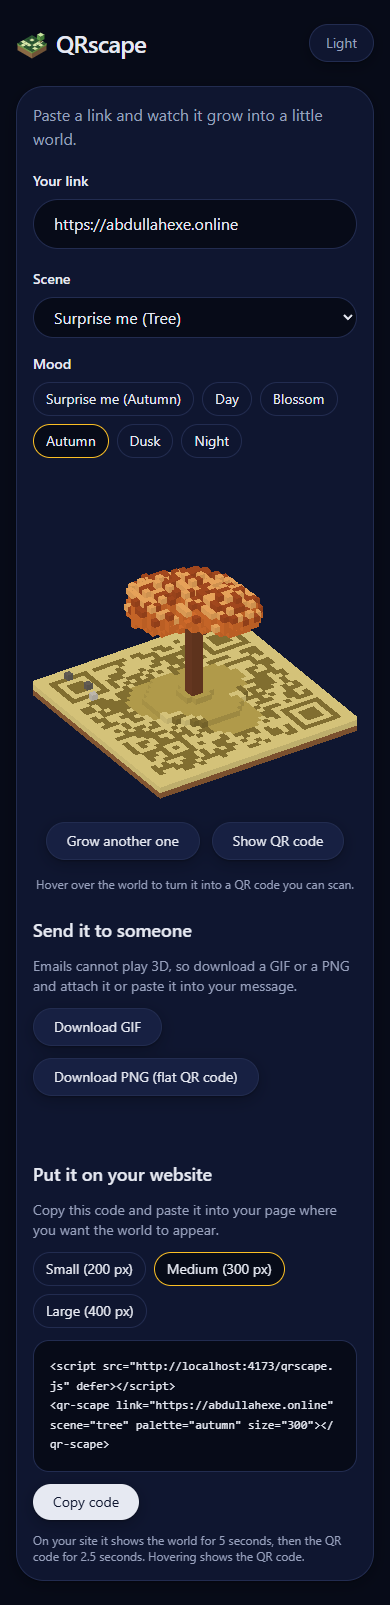
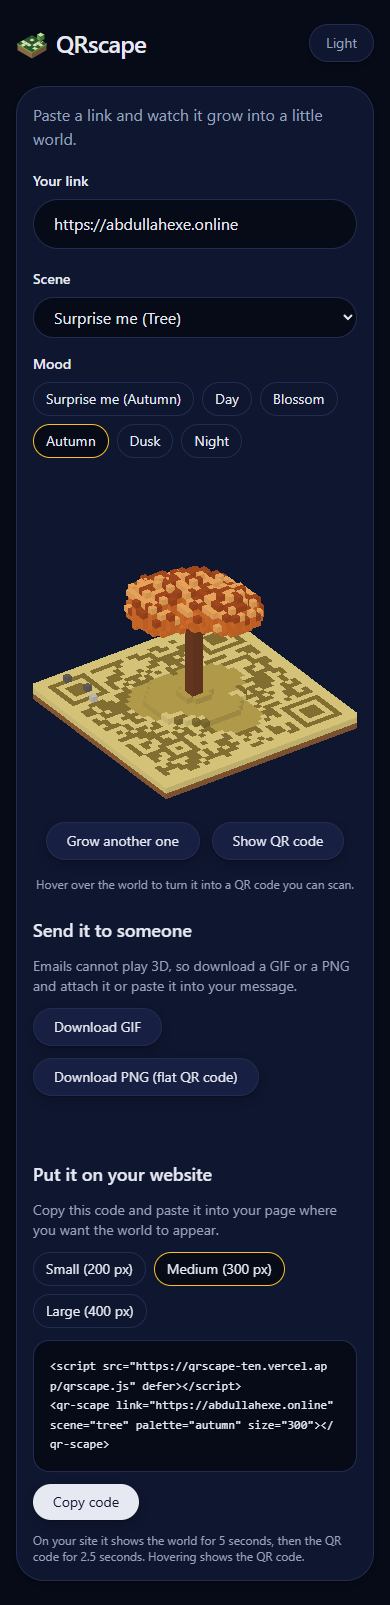
docs: README screenshots from the live site, handover after release
Screens and embed checks take the site URL, and the screenshot check
bypasses the CSP only to inject axe.

diff --git a/handover.md b/handover.md
@@ -72,8 +72,10 @@ npm run scan
 
 ## Current state
 
-- **Last done:** M15 release v0.1.0: README in full (logo, badges, hero, scene sheet, phone shot), `docs/releases/v0.1.0.md`, CHANGELOG, roadmap Done, tag `v0.1.0`. The approved plan is finished.
+- **Last done:** v0.1.0 released, pushed and tagged. Checked on the live site: all 15 scenes scan, PNG and GIF
+  decode, the embed works from another origin with the live script, axe clean, CSP and nosniff headers served.
+  README screenshots retaken from the live site. Every script in `scripts/` takes the site URL as an argument.
 - **Next:** Ask the user what comes next (ideas are in `docs/roadmap.md`).
-- **Open questions:** none.
+- **Open questions:** GitHub release for v0.1.0 (user creates it on github.com, gh CLI not installed); real phone scan by the user; what to build next.
 - **Known issues:** missing favicon (404) until M13. Browsers allow about 16 WebGL canvases per page, so more than ~16 embeds on one page will fail.
-- **Not pushed:** all commits (ask before pushing).
+- **Not pushed:** nothing.
